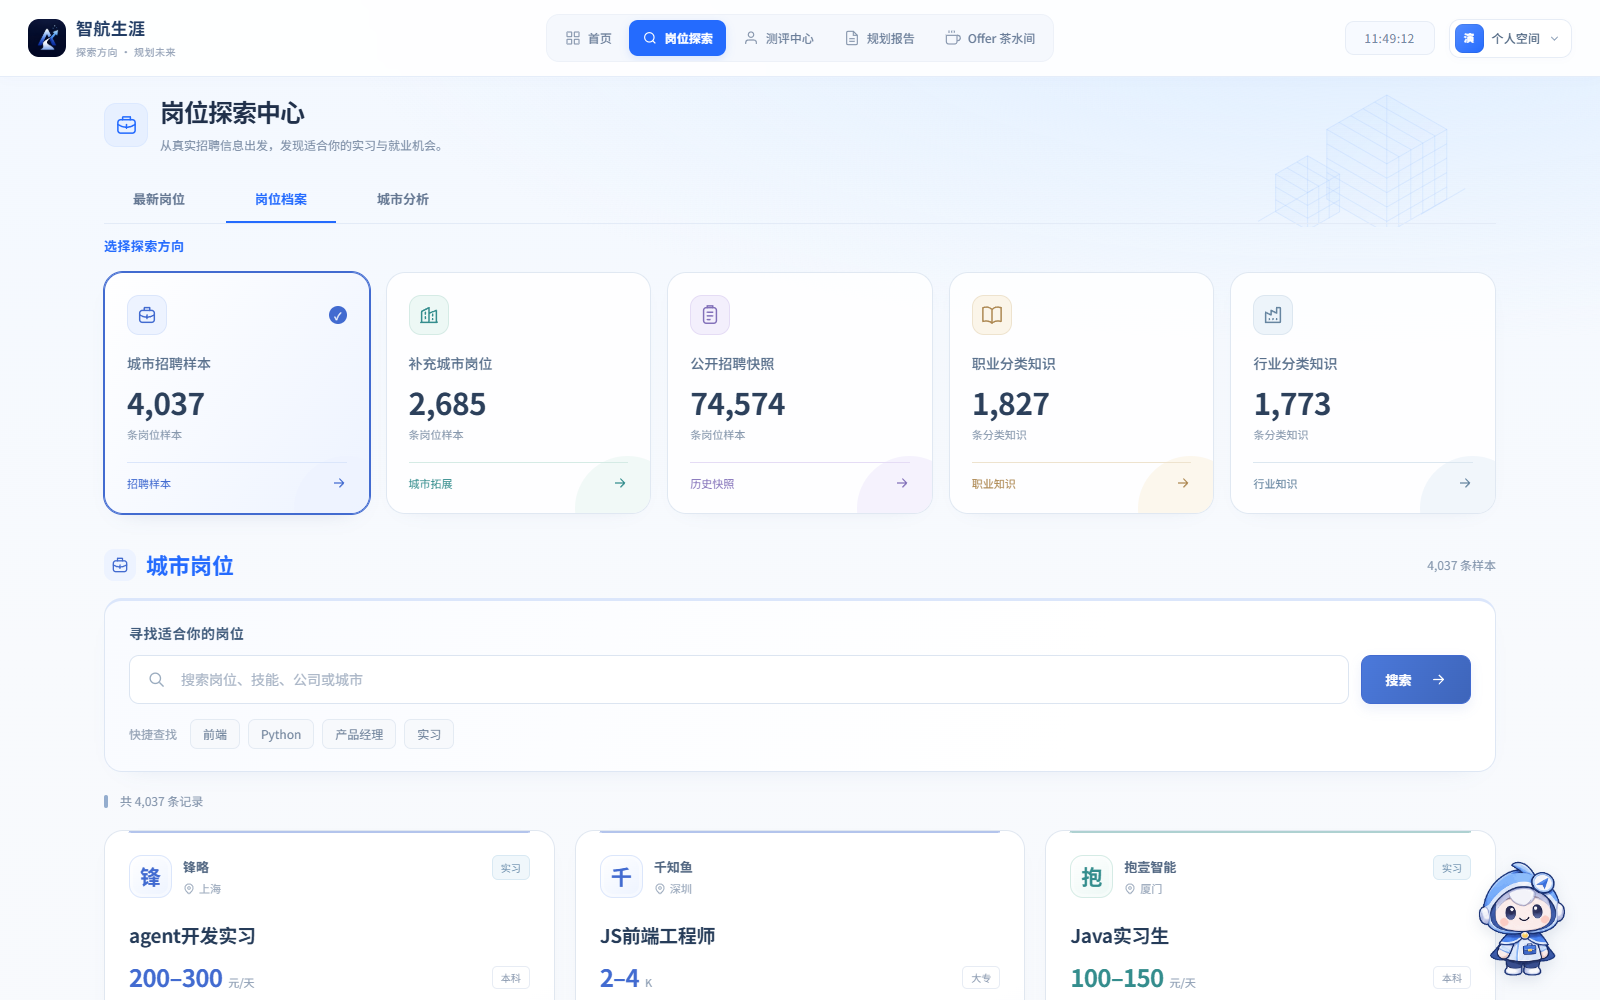
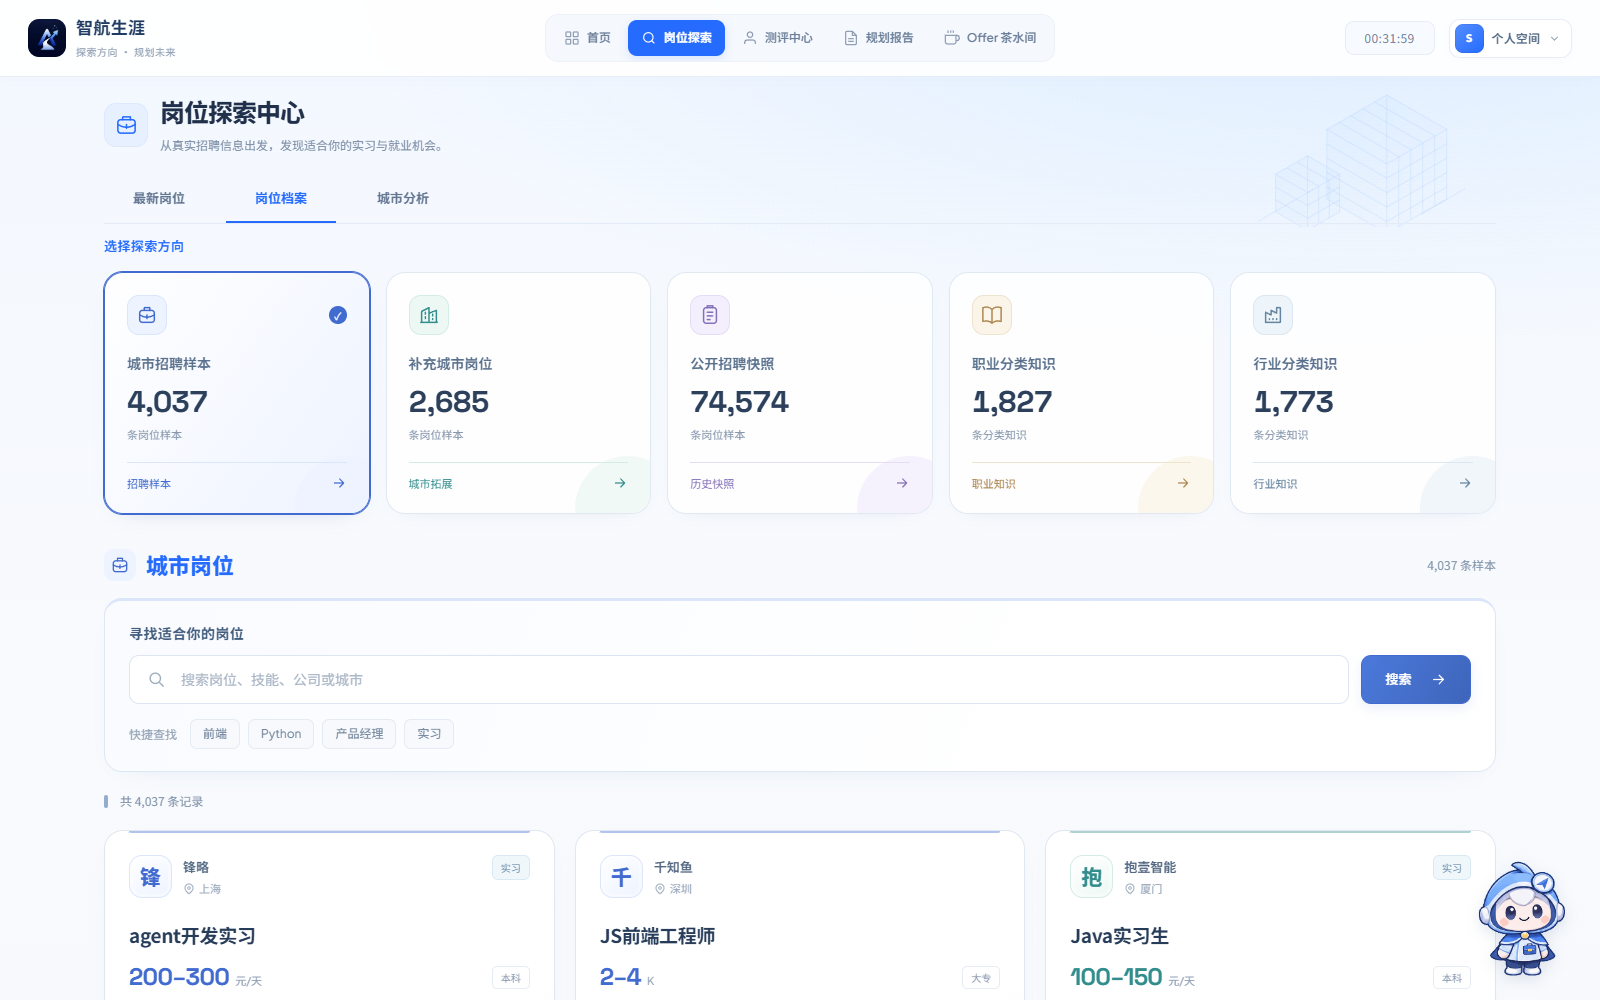
docs: align env template and refresh current system account screenshots

diff --git a/README.md b/README.md
@@ -49,7 +49,7 @@ flowchart LR
 
 ## 🖼 主要功能界面
 
-截图更新于 **2026-11-06**，个人资料使用匿名演示数据。
+主要业务界面截图更新于 **2026-11-11**，使用 **system 账号**当前界面与已有内容；下方 LightRAG 图谱保留独立样本演示。
 
 | 实时岗位与行情 | 城市招聘分析 |
 | :---: | :---: |
@@ -72,11 +72,15 @@ flowchart LR
 | [![浅色版生涯助手：连续对话、Markdown 表格与资料入口](asserts/assistant.png)](asserts/assistant.png) | [![Offer 茶水间：面经互助、简历讨论与岗位交流](asserts/community.png)](asserts/community.png) |
 
 <details>
-<summary>📰 查看行业资讯与多智能体协作流程</summary>
+<summary>📰 查看行业资讯、报告卡片库与多智能体协作流程</summary>
 
 **职业与行业快报**：按主题浏览技术、就业与职业成长资讯，保留来源和发布时间。
 
 [![职业规划与计算机行业快报](asserts/career-news.png)](asserts/career-news.png)
+
+**我的报告**：从报告卡片库打开已保存的报告，或对照历史版本。
+
+[![我的报告卡片库：已保存报告与历史版本入口](asserts/report-library.png)](asserts/report-library.png)
 
 **报告协作流程**：从简历分析、岗位证据到目标确认、行动规划与报告合成，页面展示各阶段的执行状态。
 
